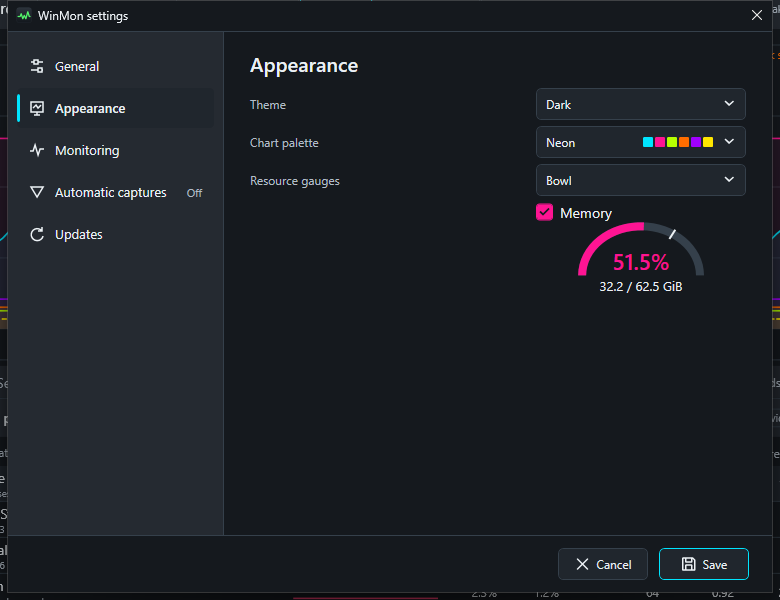
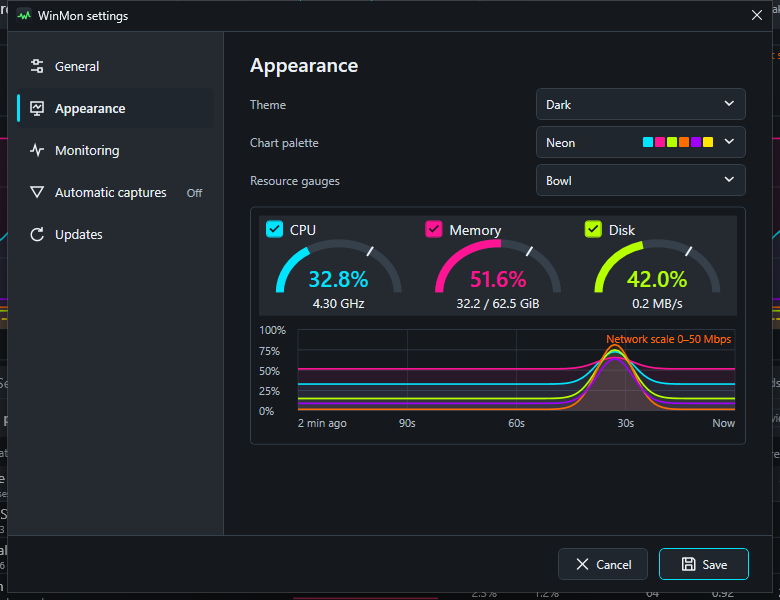
Add combined appearance preview to Settings

diff --git a/src/WinMon/Preferences/AppearancePreview.xaml b/src/WinMon/Preferences/AppearancePreview.xaml
@@ -1,0 +1,26 @@
+<UserControl x:Class="WinMon.Preferences.AppearancePreview"
+             xmlns="http://schemas.microsoft.com/winfx/2006/xaml/presentation"
+             xmlns:x="http://schemas.microsoft.com/winfx/2006/xaml"
+             xmlns:controls="clr-namespace:WinMon.Controls"
+             Focusable="False" IsHitTestVisible="False">
+    <Border x:Name="PreviewSurface" BorderThickness="1" CornerRadius="4" Padding="8"
+            Background="{DynamicResource PanelSurface}" BorderBrush="{DynamicResource Line}">
+        <Grid>
+            <Grid.RowDefinitions>
+                <RowDefinition Height="Auto" />
+                <RowDefinition Height="120" />
+            </Grid.RowDefinitions>
+            <Grid Background="{DynamicResource SectionHeaderSurface}">
+                <Grid.ColumnDefinitions>
+                    <ColumnDefinition Width="*" />
+                    <ColumnDefinition Width="*" />
+                    <ColumnDefinition Width="*" />
+                </Grid.ColumnDefinitions>
+                <controls:MetricReadout x:Name="CpuReadout" Margin="7,4" />
+                <controls:MetricReadout x:Name="MemoryReadout" Grid.Column="1" Margin="7,4" />
+                <controls:MetricReadout x:Name="DiskReadout" Grid.Column="2" Margin="7,4" />
+            </Grid>
+            <controls:CpuGraph x:Name="Chart" Grid.Row="1" Margin="0,6,0,0" />
+        </Grid>
+    </Border>
+</UserControl>

diff --git a/src/WinMon/Preferences/AppearancePreview.xaml.cs b/src/WinMon/Preferences/AppearancePreview.xaml.cs
@@ -1,0 +1,112 @@
+using System.Windows;
+using System.Windows.Controls;
+using System.Windows.Media;
+using WinMon.Controls;
+using WinMon.Monitoring;
+
+namespace WinMon.Preferences;
+
+/// <summary>A static sample of the selected theme, palette and gauge style, isolated from the saved app resources.</summary>
+public sealed partial class AppearancePreview : UserControl
+{
+    internal MetricReadout GaugePreview => MemoryReadout;
+
+    internal CpuGraph ChartPreview => Chart;
+
+    internal AppearancePreview()
+    {
+        InitializeComponent();
+        Configure(CpuReadout, Strings.CPU, "CpuAccent", 32.8, "4.30 GHz");
+        Configure(MemoryReadout, Strings.Memory, "MemoryAccent", 51.6,
+            Strings.Format(Strings.GiB, 32.2, 62.5));
+        Configure(DiskReadout, Strings.Disk, "DiskAccent", 42.0, Strings.Format(Strings.MBS, 0.2));
+        Chart.ShowGrid = true;
+        Chart.MetricLabels = [Strings.CPU, Strings.Memory, Strings.Disk, Strings.Network, Strings.GPU];
+        Chart.SetData(Samples(), 120, null);
+    }
+
+    internal void Update(string theme, string palette, GaugeStyle style)
+    {
+        var light = theme == "Light" || (theme == "System" && MainWindow.IsSystemLight()) ||
+                    theme is "BrushedSteel" or "BrushedNickel";
+        var metal = MetalThemes.IsMetal(theme) ? MetalThemes.For(theme) : null;
+        if (SystemParameters.HighContrast)
+        {
+            Resources["PanelSurface"] = SystemColors.WindowBrush;
+            Resources["SectionHeaderSurface"] = SystemColors.WindowBrush;
+            Resources["PlotSurface"] = SystemColors.WindowBrush;
+            Resources["Text"] = SystemColors.WindowTextBrush;
+            Resources["Muted"] = SystemColors.WindowTextBrush;
+            Resources["Line"] = SystemColors.WindowTextBrush;
+            Resources["GaugeTrack"] = SystemColors.GrayTextBrush;
+            foreach (var key in AccentKeys) Resources[key] = SystemColors.WindowTextBrush;
+            Resources["Accent"] = SystemColors.HighlightBrush;
+        }
+        else
+        {
+            Resources["PanelSurface"] = metal is null ? Brush(light ? "#F0F5FA" : "#15191E")
+                : MetalThemes.PanelBrush(metal);
+            Resources["SectionHeaderSurface"] = metal is null ? Brush(light ? "#E5EEF7" : "#252A31")
+                : MetalThemes.ChromeBrush(metal, true);
+            Resources["PlotSurface"] = metal is not null && theme is ("BrushedSteel" or "BrushedNickel")
+                ? MetalThemes.PlotBrush(metal)
+                : Brush(metal?.Plot ?? (light ? "#FFFFFF" : "#15191E"));
+            Resources["Text"] = Brush(metal?.Text ?? (light ? "#20334A" : "#EDF2F6"));
+            Resources["Muted"] = Brush(metal?.Muted ?? (light ? "#465D78" : "#B3BDC8"));
+            Resources["Line"] = Brush(metal?.Line ?? (light ? "#CCD9E5" : "#35404B"));
+            Resources["GaugeTrack"] = Brush(metal?.GaugeTrack ?? (light ? "#CCD9E5" : "#35404B"));
+            var colors = ChartPalettes.Colors(palette, light);
+            for (var i = 0; i < AccentKeys.Length; i++) Resources[AccentKeys[i]] = Brush(colors[i]);
+            Resources["Accent"] = Brush(light ? "#1469B5" : colors[0]);
+        }
+
+        foreach (var readout in new[] { CpuReadout, MemoryReadout, DiskReadout })
+        {
+            readout.GaugeStyle = style;
+            readout.ShowGauge(readout == CpuReadout ? 32.8 : readout == MemoryReadout ? 51.6 : 42.0, 68, 100);
+        }
+
+        Chart.UseSeriesPatterns = palette == "Colorblind";
+        Chart.InvalidateVisual();
+    }
+
+    private static readonly string[] AccentKeys =
+        ["CpuAccent", "MemoryAccent", "DiskAccent", "NetworkAccent", "GpuAccent", "SecondaryDiskAccent"];
+
+    private static SolidColorBrush Brush(string color)
+    {
+        var brush = new SolidColorBrush((Color)ColorConverter.ConvertFromString(color));
+        brush.Freeze();
+        return brush;
+    }
+
+    private static void Configure(MetricReadout readout, string label, string accentKey, double value, string detail)
+    {
+        readout.IsHitTestVisible = false;
+        readout.Label = label;
+        readout.AccentKey = accentKey;
+        readout.Toggle.Focusable = false;
+        readout.ValueLabel.Text = Strings.Format(Strings.PercentOneDecimal, value);
+        readout.DetailLabel.Text = detail;
+    }
+
+    private static MonitorSample[] Samples()
+    {
+        var now = DateTimeOffset.UtcNow;
+        return Enumerable.Range(0, 121).Select(i =>
+        {
+            var pulse = Math.Exp(-Math.Pow((i - 87) / 7d, 2));
+            return new MonitorSample(now.AddSeconds(i - 120), 32.8 + 40 * pulse, [], 0)
+            {
+                Resources = new ResourceSample
+                {
+                    TotalMemoryBytes = 1000, UsedMemoryBytes = (ulong)(516 + 140 * pulse),
+                    DiskName = "C:", DiskActivePercent = 15 + 60 * pulse,
+                    NetworkId = "preview", ReceiveBytesPerSecond = 100_000 + 5_000_000 * pulse,
+                    SendBytesPerSecond = 80_000,
+                    GpuId = "preview", GpuPercent = 9 + 55 * pulse
+                }
+            };
+        }).ToArray();
+    }
+}

diff --git a/src/WinMon/Preferences/SettingsWindow.cs b/src/WinMon/Preferences/SettingsWindow.cs
@@ -46,7 +46,7 @@ public sealed class SettingsWindow : Window
         }
     }
 
-    /// <summary>Hosts the gauge preview, which is an illustration: assistive technology skips it and its checkbox.</summary>
+    /// <summary>Hosts the appearance illustration; assistive technology skips its sample controls.</summary>
     private sealed class PreviewHost : Border
     {
         protected override AutomationPeer OnCreateAutomationPeer()
@@ -77,7 +77,7 @@ public sealed class SettingsWindow : Window
     private readonly ComboBox _themeSelector;
     private readonly ComboBox _paletteSelector;
     private readonly ComboBox _gaugeSelector;
-    private readonly MetricReadout _gaugePreview;
+    private readonly AppearancePreview _appearancePreview;
     private readonly ComboBox _retentionSelector;
     private readonly CheckBox _minimizeToTrayCheckBox;
     private readonly CheckBox _startupCheckBox;
@@ -189,7 +189,11 @@ public sealed class SettingsWindow : Window
                                         ?? throw new InvalidOperationException(
                                             "Palette choice template was not found.");
         UpdatePalettePreviews();
-        _themeSelector.SelectionChanged += (_, _) => UpdatePalettePreviews();
+        _themeSelector.SelectionChanged += (_, _) =>
+        {
+            UpdatePalettePreviews();
+            UpdateAppearancePreview();
+        };
         _paletteSelector.ToolTip = Strings.ResourceColorsCPUMemoryPrimaryDiskNetworkGPUSecondDisk;
         _gaugeSelector = CreateSelector([], "");
         _gaugeSelector.ItemsSource = new[]
@@ -206,15 +210,10 @@ public sealed class SettingsWindow : Window
         _gaugeSelector.SelectedValuePath = nameof(GaugeChoice.Style);
         _gaugeSelector.SelectedValue = preferences.GaugeStyle;
         _gaugeSelector.ToolTip = Strings.PeakLastTwoMinutesExplanation;
-        _gaugePreview = new MetricReadout
-        {
-            Label = Strings.Memory, AccentKey = "MemoryAccent", Width = 210, IsHitTestVisible = false
-        };
-        _gaugePreview.Toggle.Focusable = false;
-        _gaugePreview.ValueLabel.Text = Strings.Format(Strings.PercentOneDecimal, 51.5);
-        _gaugePreview.DetailLabel.Text = Strings.Format(Strings.GiB, 32.2, 62.5);
-        ShowGaugePreview();
-        _gaugeSelector.SelectionChanged += (_, _) => ShowGaugePreview();
+        _appearancePreview = new AppearancePreview();
+        UpdateAppearancePreview();
+        _paletteSelector.SelectionChanged += (_, _) => UpdateAppearancePreview();
+        _gaugeSelector.SelectionChanged += (_, _) => UpdateAppearancePreview();
         _retentionSelector = CreateSelector([Strings.Value10Minutes, Strings.Value30Minutes, Strings.Value60Minutes],
             RetentionLabel(preferences.RetentionSeconds));
         _minimizeToTrayCheckBox = CreateCheckBox(Strings.MinimizeToTheNotificationArea, preferences.MinimizeToTray);
@@ -285,10 +284,11 @@ public sealed class SettingsWindow : Window
         Content = surface;
         return;
 
-        void ShowGaugePreview()
+        void UpdateAppearancePreview()
         {
-            _gaugePreview.GaugeStyle = SelectedGaugeStyle;
-            _gaugePreview.ShowGauge(51.5, 68, 100);
+            if (_appearancePreview is not { } preview) return;
+            preview.Update(_themeSelector.SelectedValue as string ?? "Dark",
+                _paletteSelector.SelectedValue as string ?? "Classic", SelectedGaugeStyle);
         }
 
         void UpdatePalettePreviews()
@@ -311,7 +311,9 @@ public sealed class SettingsWindow : Window
 
     internal ComboBox PaletteSelector => _paletteSelector;
 
-    internal MetricReadout GaugePreview => _gaugePreview;
+    internal MetricReadout GaugePreview => _appearancePreview.GaugePreview;
+
+    internal AppearancePreview CombinedPreview => _appearancePreview;
 
     private GaugeStyle SelectedGaugeStyle => _gaugeSelector.SelectedValue as GaugeStyle? ?? GaugeStyle.Bowl;
 
@@ -650,7 +652,7 @@ public sealed class SettingsWindow : Window
         page.Children.Add(Field(Strings.ResourceGauges, _gaugeSelector));
         page.Children.Add(new PreviewHost
         {
-            Child = _gaugePreview, HorizontalAlignment = HorizontalAlignment.Right, Margin = new Thickness(0, 4, 0, 4)
+            Child = _appearancePreview, Margin = new Thickness(0, 8, 0, 4)
         });
         return page;
     }

diff --git a/tests/WinMon.Tests/SettingsLayoutTests.cs b/tests/WinMon.Tests/SettingsLayoutTests.cs
@@ -1,4 +1,6 @@
 using System.Windows.Controls;
+using System.Windows;
+using System.Windows.Media;
 using NUnit.Framework;
 using WinMon.Monitoring;
 using WinMon.Preferences;
@@ -93,6 +95,49 @@ public sealed class SettingsLayoutTests
                 Assert.That(choices, Is.EqualTo(Enum.GetValues<GaugeStyle>().Length));
                 Assert.That(window.GaugePreview.GaugeStyle, Is.EqualTo(GaugeStyle.None));
                 Assert.That(window.GaugePreview.IsHitTestVisible, Is.False);
+            });
+        }
+        finally
+        {
+            window.Close();
+        }
+    }
+
+    [Test]
+    public void AppearancePreview_CombinesUnsavedThemePaletteAndGaugeChoices()
+    {
+        var window = Settings(new MonitorPreferences
+            { Theme = "BrushedNickel", ChartPalette = "Ocean", GaugeStyle = GaugeStyle.Needle });
+        try
+        {
+            var preview = window.CombinedPreview;
+            var appMemoryBrush = Application.Current?.Resources["MemoryAccent"];
+            Assert.That(preview.GaugePreview.GaugeStyle, Is.EqualTo(GaugeStyle.Needle));
+            Assert.That(preview.ChartPreview.ShowGrid, Is.True);
+            if (!SystemParameters.HighContrast)
+            {
+                Assert.That(preview.ChartPreview.TryFindResource("PlotSurface"), Is.TypeOf<DrawingBrush>());
+                Assert.That(((SolidColorBrush)preview.ChartPreview.TryFindResource("MemoryAccent")!).Color,
+                    Is.EqualTo((Color)ColorConverter.ConvertFromString("#6745A5")));
+            }
+
+            window.ThemeSelector.SelectedValue = "Gunmetal";
+            window.PaletteSelector.SelectedValue = "Classic";
+            window.GaugeSelector.SelectedValue = GaugeStyle.BottomBar;
+
+            Assert.Multiple(() =>
+            {
+                Assert.That(preview.GaugePreview.GaugeStyle, Is.EqualTo(GaugeStyle.BottomBar));
+                if (Application.Current is not null)
+                    Assert.That(Application.Current.Resources["MemoryAccent"], Is.SameAs(appMemoryBrush),
+                        "The unsaved preview must not recolor the main window.");
+                if (!SystemParameters.HighContrast)
+                {
+                    Assert.That(((SolidColorBrush)preview.ChartPreview.TryFindResource("PlotSurface")!).Color,
+                        Is.EqualTo((Color)ColorConverter.ConvertFromString("#151D26")));
+                    Assert.That(((SolidColorBrush)preview.ChartPreview.TryFindResource("MemoryAccent")!).Color,
+                        Is.EqualTo((Color)ColorConverter.ConvertFromString("#4285FF")));
+                }
             });
         }
         finally

diff --git a/src/WinMon/Diagnostics/WindowDiagnostics.Gauges.cs b/src/WinMon/Diagnostics/WindowDiagnostics.Gauges.cs
@@ -122,11 +122,17 @@ internal sealed partial class WindowDiagnostics
         try
         {
             settings.Show();
+            settings.ShowSection(SettingsSection.Appearance);
             if (settings.GaugePreview.GaugeStyle != GaugeStyle.Bowl ||
                 settings.GaugePreview.Gauge.Visibility != Visibility.Visible)
                 throw new InvalidOperationException("Settings did not preview the saved gauge style.");
             await CaptureVisualAsync((FrameworkElement)settings.Content, Path.Combine(output, "settings-gauges.png"),
                 1, cancellationToken);
+            settings.ThemeSelector.SelectedValue = "BrushedNickel";
+            settings.PaletteSelector.SelectedValue = "Ocean";
+            settings.GaugeSelector.SelectedValue = GaugeStyle.Needle;
+            await CaptureVisualAsync((FrameworkElement)settings.Content,
+                Path.Combine(output, "settings-appearance-nickel.png"), 1, cancellationToken);
         }
         finally
         {

diff --git a/README.md b/README.md
@@ -127,7 +127,7 @@ Choose **Light**, **Dark**, **System**, **Brushed steel**, **Copper**, **Gunmeta
 
 The selected Settings section uses light text and icons against its blue highlight in Light appearance.
 
-Choose how the resource gauges look under **Resource gauges** in Settings: **Bowl** (the default), **Needle**, **Segmented arc**, **Left bar**, **Bottom bar**, **Segmented bar** or **None**. A preview beside the choice shows the style before you save. Every style keeps the same height, so the chart doesn't move when you switch. **Bowl** and **Segmented arc** hold the reading inside a nearly round arc, with the detail line below. **Needle** draws a half-circle dial with the reading underneath; its detail line, such as clock speed or memory in use, appears when you hover the tile. **None** hides the gauges and their legend.
+Choose how the resource gauges look under **Resource gauges** in Settings: **Bowl** (the default), **Needle**, **Segmented arc**, **Left bar**, **Bottom bar**, **Segmented bar** or **None**. A sample on the Appearance page combines the selected theme, chart palette and gauge style before you save. Every style keeps the same height, so the chart doesn't move when you switch. **Bowl** and **Segmented arc** hold the reading inside a nearly round arc, with the detail line below. **Needle** draws a half-circle dial with the reading underneath; its detail line, such as clock speed or memory in use, appears when you hover the tile. **None** hides the gauges and their legend.
 
 See [Light appearance and additional palettes](docs/example/README.md) in the example gallery.
 
@@ -140,11 +140,11 @@ See [Light appearance and additional palettes](docs/example/README.md) in the ex
 
 The three custom palettes keep their supplied colors in both themes. Open an image for the full-size view.
 
-![WinMon Appearance settings with theme, Neon palette and resource gauge preview](docs/example/example_settings.png)
+![WinMon Appearance settings with a combined theme, Neon chart palette and resource gauge preview](docs/example/example_settings.png)
 
 The Settings image above is from the installer/portable configuration. Store builds hide the GitHub update controls and use Store-managed updates:
 
-![WinMon Store Appearance settings with theme, palette and gauge options, without an Updates section](docs/example/example_settings_store.png)
+![WinMon Store Appearance settings with the combined preview and no Updates section](docs/example/example_settings_store.png)
 
 </details>
 

diff --git a/docs/example/README.md b/docs/example/README.md
@@ -1,6 +1,6 @@
 # WinMon screenshot examples
 
-Most gallery images were refreshed October 25, 2026, using WinMon 3.1.0. The two Settings images were updated for WinMon 3.2.1's separate Appearance section. The main gallery uses the ordinary installer/portable configuration; the separate Store Settings capture uses `StoreBuild=true`. These examples use illustrative process identities and measurements so the screenshots are consistent and do not expose a user's running processes. They are UI examples, not performance measurements or proof of installed MSIX behavior.
+Most gallery images were refreshed October 25, 2026, using WinMon 3.1.0. The two Settings images were updated for WinMon 3.2.1's combined Appearance preview. The main gallery uses the ordinary installer/portable configuration; the separate Store Settings capture uses `StoreBuild=true`. These examples use illustrative process identities and measurements so the screenshots are consistent and do not expose a user's running processes. They are UI examples, not performance measurements or proof of installed MSIX behavior.
 
 | File | View |
 | --- | --- |
@@ -18,8 +18,8 @@ Most gallery images were refreshed October 25, 2026, using WinMon 3.1.0. The two
 | [example_neon.png](example_neon.png) | Neon palette. |
 | [example_arcade.png](example_arcade.png) | Arcade palette. |
 | [example_tropical.png](example_tropical.png) | Tropical palette. |
-| [example_settings.png](example_settings.png) | Installer/portable Appearance section with Neon swatches, gauge preview and an Updates section in the sidebar. |
-| [example_settings_store.png](example_settings_store.png) | Store Appearance section with the same options and preview, without an Updates section. |
+| [example_settings.png](example_settings.png) | Installer/portable Appearance section with Neon swatches, a combined theme/chart/gauge preview and an Updates section in the sidebar. |
+| [example_settings_store.png](example_settings_store.png) | Store Appearance section with the same combined preview, without an Updates section. |
 
 The process dashboard and compact views use the same illustrative recording. Services and Usage use separate illustrative recordings. Settings uses the real window and controls; its disk choices reflect the capture machine. Screenshots capture the complete Windows-composed window, including native caption buttons, and use the current responsive layout. Generic process icons are used for the illustrative executable paths.
 

diff --git a/docs/design/APPEARANCE-PREVIEW.md b/docs/design/APPEARANCE-PREVIEW.md
@@ -1,0 +1,24 @@
+# Combined appearance preview
+
+Requested on 2026-10-25 for the Appearance section of Settings.
+
+## Goal
+
+Show the selected theme, chart palette and resource gauge style together before Save. Selector changes update only the sample; cancelling leaves the running dashboard and saved preferences unchanged.
+
+## Design
+
+- A compact, noninteractive dashboard sample sits below the three selectors in the existing Appearance page.
+- Three resource tiles use the real `MetricReadout` control and the chosen gauge style. A small chart below them uses the real `CpuGraph` with fixed illustrative samples.
+- The sample owns a local WPF resource dictionary. Theme surfaces and chart palette brushes resolve inside it, so the main window keeps its current appearance until Settings is saved.
+- Windows high contrast colors override the sample theme as they do in the main window. Assistive technology skips the decorative sample; the three selectors retain their labels.
+
+## Landed
+
+- `AppearancePreview` contains the gauge strip and chart, with no sampling or preference writes.
+- Changing any of the three selectors updates the sample immediately. Palette changes also retain the existing palette swatches.
+- The `gauges` smoke captures Dark and a Brushed Nickel/Ocean/Needle combination in Settings; layout tests check the unsaved resources and gauge style.
+
+## Departures
+
+The preview shows CPU, memory and disk gauges rather than all six resources so it fits the existing Settings dialog without resizing it. The chart still shows the available palette colors across five sample traces.

diff --git a/docs/DEVELOPMENT.md b/docs/DEVELOPMENT.md
@@ -61,7 +61,7 @@ $run.ExitCode
 | `--usage-smoke-output <dir>` | `usage` | Usage tab |
 | `--capture-smoke-output <dir>` | `capture` | Automatic captures and Settings sections in Dark and Light appearances |
 | `--chart-smoke-output <dir>` | `chart` | Chart dropdown, focused resources, hidden-resource selection and capture inspection |
-| `--gauges-smoke-output <dir>` | `gauges` | Every gauge style in dark and light at 1000 and 836 DIPs: shared readout height, unclipped values, network scale, peak legend, unavailable readings, the saved style and the Settings preview (`gauges.json`) |
+| `--gauges-smoke-output <dir>` | `gauges` | Every gauge style in dark and light at 1000 and 836 DIPs: shared readout height, unclipped values, network scale, peak legend, unavailable readings, the saved style and combined Settings appearance previews (`gauges.json`) |
 | `--examples-output <dir>` | — | README screenshots; follow [the example gallery's steps](example/README.md#regenerate) |
 | `--profile-output <dir> [seconds]` | — | Whole-process cost; see [Profile the whole app](#profile-the-whole-app) |
 

diff --git a/docs/design/README.md b/docs/design/README.md
@@ -21,6 +21,7 @@ These records describe the individual feature increments and their validation at
 - [Action drawer](ACTION-DRAWER.md), which moved hiding the action bar onto the bar
 - [Activity counts](ACTIVITY-COUNTS.md), which took the old toggle's place in the tab strip
 - [Metal theme prototypes](METAL-THEMES.md), which add four appearance finishes without changing layout
+- [Combined appearance preview](APPEARANCE-PREVIEW.md), which shows theme, palette and gauge choices together before Save
 
 Implemented on 2026-10-24; each note ends with what landed and where it departed from the design:
 
